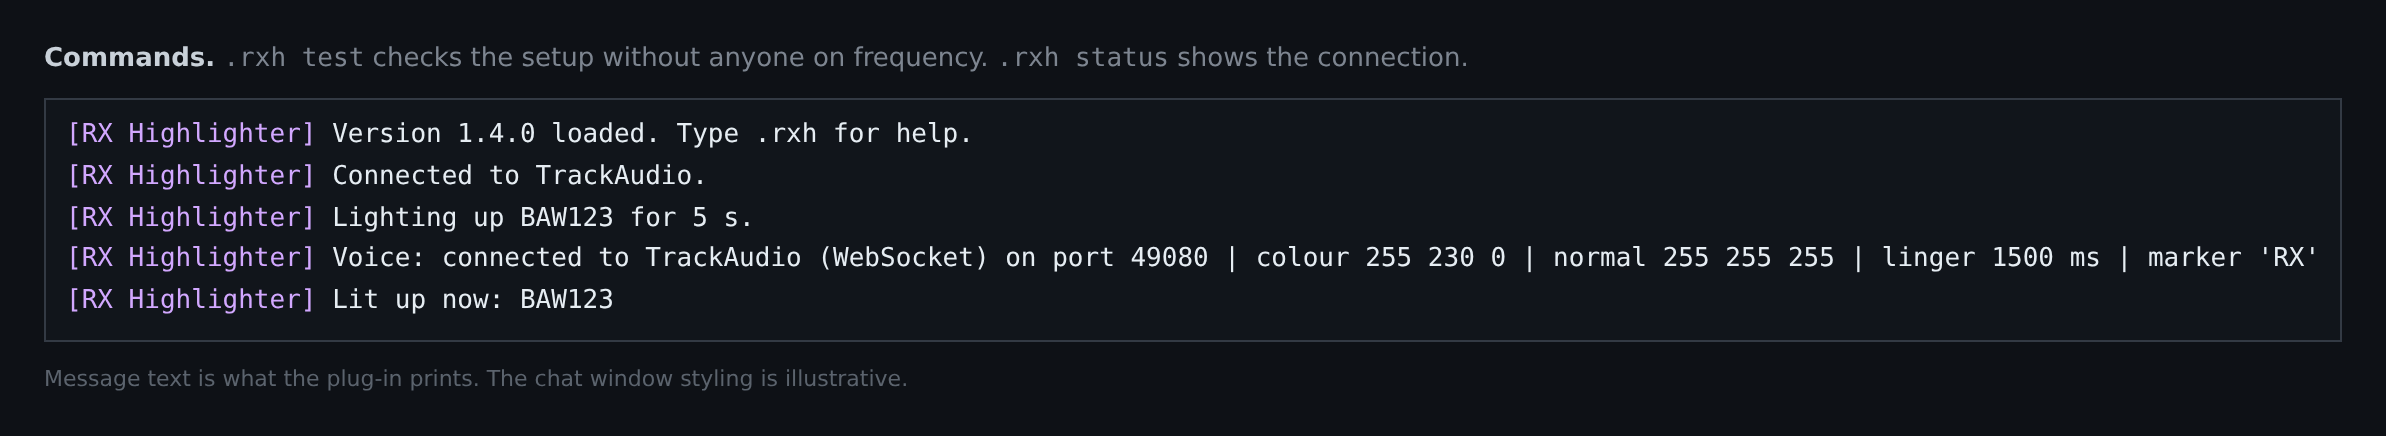
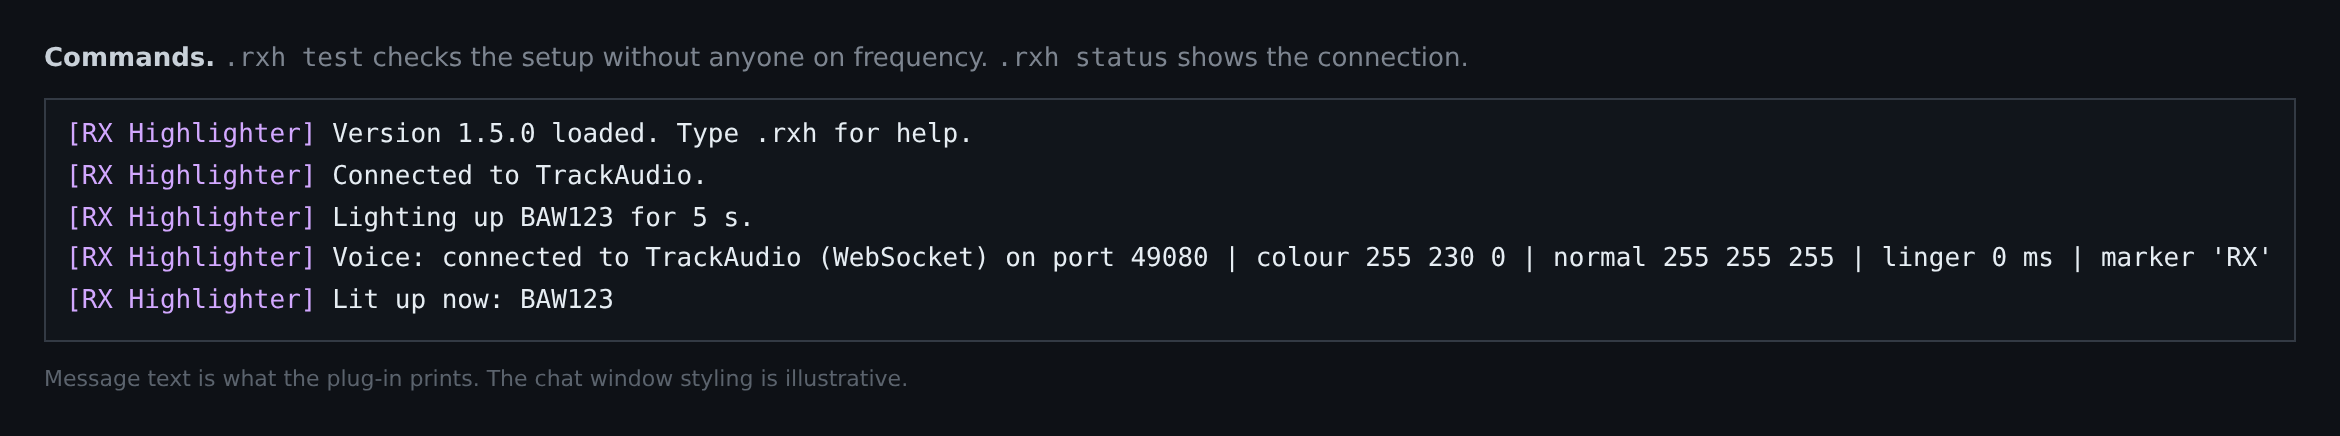
Turn the highlight off as soon as PTT is released
Change the default linger from 1500 ms to 0. The hold time existed so
short transmissions weren't missed between EuroScope's 1-second timer
ticks; since 1.4.0 updates are immediate, so it only made the highlight
lag after the pilot stopped talking. A saved .rxh linger value is kept.
Version 1.5.0.

Claude-Session: https://claude.ai/code/session_01E2aZbooZKuXC8DE8BjnyjF

diff --git a/docs/images/illustrations.html b/docs/images/illustrations.html
@@ -95,10 +95,10 @@
 <div class="shot" id="messages">
   <div class="caption"><b>Commands.</b> <code>.rxh test</code> checks the setup without anyone on frequency. <code>.rxh status</code> shows the connection.</div>
   <div class="msgs">
-    <div><span class="h">[RX Highlighter]</span> <span class="c">Version 1.4.0 loaded. Type .rxh for help.</span></div>
+    <div><span class="h">[RX Highlighter]</span> <span class="c">Version 1.5.0 loaded. Type .rxh for help.</span></div>
     <div><span class="h">[RX Highlighter]</span> <span class="c">Connected to TrackAudio.</span></div>
     <div><span class="h">[RX Highlighter]</span> <span class="c">Lighting up BAW123 for 5 s.</span></div>
-    <div><span class="h">[RX Highlighter]</span> <span class="c">Voice: connected to TrackAudio (WebSocket) on port 49080 | colour 255 230 0 | normal 255 255 255 | linger 1500 ms | marker 'RX'</span></div>
+    <div><span class="h">[RX Highlighter]</span> <span class="c">Voice: connected to TrackAudio (WebSocket) on port 49080 | colour 255 230 0 | normal 255 255 255 | linger 0 ms | marker 'RX'</span></div>
     <div><span class="h">[RX Highlighter]</span> <span class="c">Lit up now: BAW123</span></div>
   </div>
   <div class="note">Message text is what the plug-in prints. The chat window styling is illustrative.</div>

diff --git a/src/RxHighlightPlugin.h b/src/RxHighlightPlugin.h
@@ -79,7 +79,8 @@ private:
     // (assumed / notified / non-concerned etc.).
     bool normalColourSet_ = true;
     COLORREF normalColour_ = RGB(255, 255, 255);
-    std::chrono::milliseconds linger_{1500};
+    // How long to stay lit after PTT is released. 0 = turn off immediately.
+    std::chrono::milliseconds linger_{0};
     std::string marker_ = "RX";
     std::uint16_t port_ = 49080;
 };

diff --git a/src/Version.h b/src/Version.h
@@ -1,5 +1,5 @@
 #pragma once
 
 #define RXH_PLUGIN_NAME "RX Highlighter"
-#define RXH_VERSION_STRING "1.4.0"
+#define RXH_VERSION_STRING "1.5.0"
 #define RXH_AUTHOR "RX Highlighter contributors"

diff --git a/README.md b/README.md
@@ -86,16 +86,16 @@ Check your setup without anyone talking: `.rxh test BAW123` lights up BAW123 for
 | `.rxh colour R G B` | Highlight colour (default `255 230 0`, bright yellow) |
 | `.rxh normal R G B` | Callsign colour when **not** transmitting (default `255 255 255`, white) |
 | `.rxh normal default` | Use EuroScope's own colours when not transmitting |
-| `.rxh linger MS` | Stay lit for MS after the transmission ends (default 1500, 0–10000) |
+| `.rxh linger MS` | Stay lit for MS after the transmission ends (default 0 = turn off as soon as PTT is released, max 10000) |
 | `.rxh marker TEXT` | Text shown by the marker item (default `RX`) |
 | `.rxh port N` | Voice client port (default 49080) |
 | `.rxh test CALLSIGN [SEC]` | Pretend CALLSIGN is transmitting (1–60 s, default 5) |
 
 ## Limitations
 
-* **Updates straight away.** As soon as TrackAudio reports a transmission, the plug-in asks
-  EuroScope to redraw, without waiting for EuroScope's 1-second plug-in timer. The default
-  1.5 s linger keeps a quick "roger" visible long enough to notice.
+* **Updates straight away.** As soon as TrackAudio reports that a pilot pressed or released
+  PTT, the plug-in asks EuroScope to redraw, without waiting for EuroScope's 1-second plug-in
+  timer. Use `.rxh linger MS` if you'd like the highlight to stay on briefly after they stop.
 * Highlights the **text colour** of the item. Plug-ins can't change a list row's background.
 * Matches on network callsign, so it lights up anyone you **receive** in TrackAudio, on any
   of your RX frequencies.

diff --git a/docs/releases/v1.5.0.md b/docs/releases/v1.5.0.md
@@ -1,0 +1,12 @@
+## What's new
+
+- **The highlight turns off as soon as the pilot releases PTT.** Before, it stayed on for 1.5 seconds afterwards. That hold time was only needed before version 1.4.0 made updates instant.
+- If you'd like a short hold, type e.g. `.rxh linger 300` (0.3 seconds). If you already set a linger value yourself, it's kept.
+
+## Download
+
+Download **`RxHighlighter.dll`** below and replace your existing copy while EuroScope is closed. Your list setup and settings stay the same.
+
+If you're on an older version and don't want to update yet, typing `.rxh linger 0` gives the same result.
+
+New to the plug-in? Follow the [setup steps in the README](https://github.com/Aster-Ker/euroscope-rx-highlighter#install).
